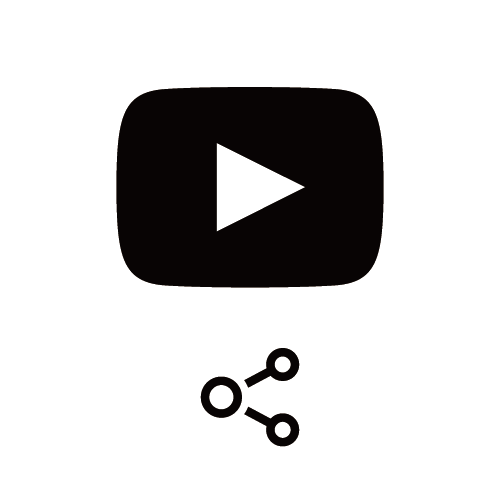
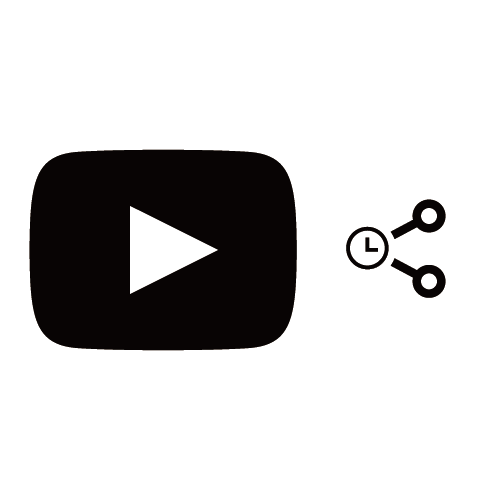
Add timestamp feature

Changed region(s): [[0.06, 0.15, 0.9, 0.9]]

diff --git a/ytshare/src/app.js b/ytshare/src/app.js
@@ -4,20 +4,36 @@ const btnShareYT = document.querySelector(".shareYT");
 const btnRetryYT = document.querySelector(".retryYT");
 const textResult = document.querySelector("#result");
 
-let addHidden = (item) => {
+const timestamp = document.querySelector(".timestamp");
+const useTime = document.querySelector("#use_time");
+const inputTime = document.querySelector(".time_input");
+
+let hideElem = (item) => {
   item.classList.add("hidden");
 }
 
-let rmHidden = (item) => {
+let showElem = (item) => {
   item.classList.remove("hidden");
 }
 
 let shareYT = () => {
   const yText = iLink.value;
 
+  let hour = document.querySelector("#h").value;
+  let min = document.querySelector("#m").value;
+  let sec = document.querySelector("#s").value;
+
   const linkPos = yText.indexOf("?v=");
   if (linkPos != -1 && yText.search("youtu") != -1) {
-    const shareLink = "https://youtu.be/" + yText.substr(linkPos + 3, 11);
+    let shareLink = "https://youtu.be/" + yText.substr(linkPos + 3, 11);
+
+    if (useTime.checked) {
+      if (!(hour == 0 && min == 0 && sec == 0)
+      && (!(hour < 0 || min < 0 || sec < 0))) {
+        const tStamp = (hour * 3600) + (min * 60) + sec;
+        shareLink += "?t=" + tStamp;
+      }
+    }
 
     if (navigator.share) {
       navigator
@@ -36,28 +52,45 @@ let shareYT = () => {
       oLink.innerText = shareLink;
       textResult.innerText = "클립보드에 복사 완료 😎";
     }
-    rmHidden(oLink);
+
+    showElem(oLink);
   }
   else {
-    addHidden(btnShareYT);
+    hideElem(btnShareYT);
     if (yText.indexOf("https://youtu.be/") != -1 && (yText.length == 28))
       textResult.innerText = "이미 변환이 완료된 링크네요 😄";
     else
       textResult.innerText = "유튜브 링크가 아닌 것 같습니다 🙄";
   }
-  addHidden(iLink);
-  rmHidden(btnRetryYT);
-  rmHidden(textResult);
+
+  hideElem(inputTime);
+  hideElem(iLink);
+  hideElem(timestamp);
+  showElem(btnRetryYT);
+  showElem(textResult);
 };
 
 let retryYT = () => {
-  rmHidden(iLink);
+  showElem(iLink);
+  showElem(timestamp);
+  showElem(btnShareYT);
+  hideElem(btnRetryYT);
   iLink.value = "";
   oLink.innerText = "";
   textResult.innerText = "";
-  rmHidden(btnShareYT);
-  addHidden(btnRetryYT);
+  useTime.checked = false;
+  document.querySelector("#h").value = 0;
+  document.querySelector("#m").value = 0;
+  document.querySelector("#s").value = 0;
+};
+
+let showTime = () => {
+  if (useTime.checked)
+    showElem(inputTime);
+  else
+    hideElem(inputTime);
 };
 
 btnShareYT.addEventListener("click", shareYT);
 btnRetryYT.addEventListener("click", retryYT);
+useTime.addEventListener("click", showTime);

diff --git a/ytshare/index.html b/ytshare/index.html
@@ -13,16 +13,31 @@
 </head>
 
 <body>
-  <div style="margin-left: 10px; margin-top:20px; margin-bottom: 20px;">
-    <h3 class="yellow">유튜브 링크</h3>
-    <input autofocus required id="input_link" placeholder="공유할 유튜브 링크"></textarea>
-  </div>
+  <div style="margin: 10px">
+    <div style="margin-bottom: 30px">
+      <h3 class="yellow">유튜브 링크</h3>
+      <input autofocus id="input_link" placeholder="공유할 유튜브 링크">
+    </div>
 
-  <div style="margin-left: 10px;">
-    <p id="result_link" class="foreground"></p>
-    <p id="result" class="foreground"></p>
-    <button class="shareYT">공유하기</button>
-    <button class="retryYT hidden">다시하기</button>
+    <div class="timestamp">
+      <h3 class="green">
+        타임스탬프
+        <input type="checkbox" id="use_time">
+      </h3>
+    </div>
+    <div class="pink time_input hidden">
+      시간
+      <input type="number" value=0 min=0 id="h" placeholder="시">
+      <input type="number" value=0 min=0 max=59 id="m" placeholder="분">
+      <input type="number" value=0 min=0 max=59 id="s" placeholder="초">
+    </div>
+
+    <div>
+      <p id="result_link" class="foreground"></p>
+      <p id="result" class="foreground"></p>
+      <button class="shareYT">공유하기</button>
+      <button class="retryYT hidden">다시하기</button>
+    </div>
   </div>
   <script type="text/javascript" src="src/app.js"></script>
 </body>
